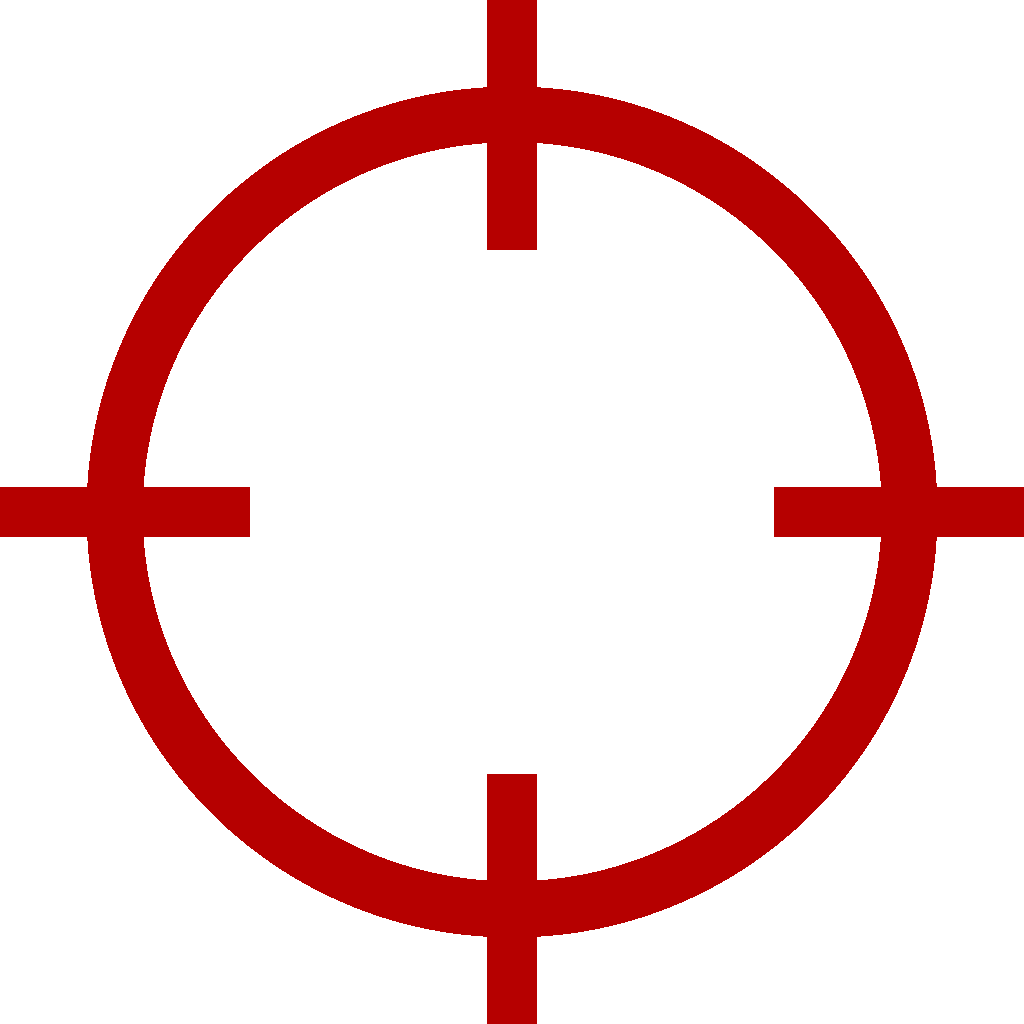
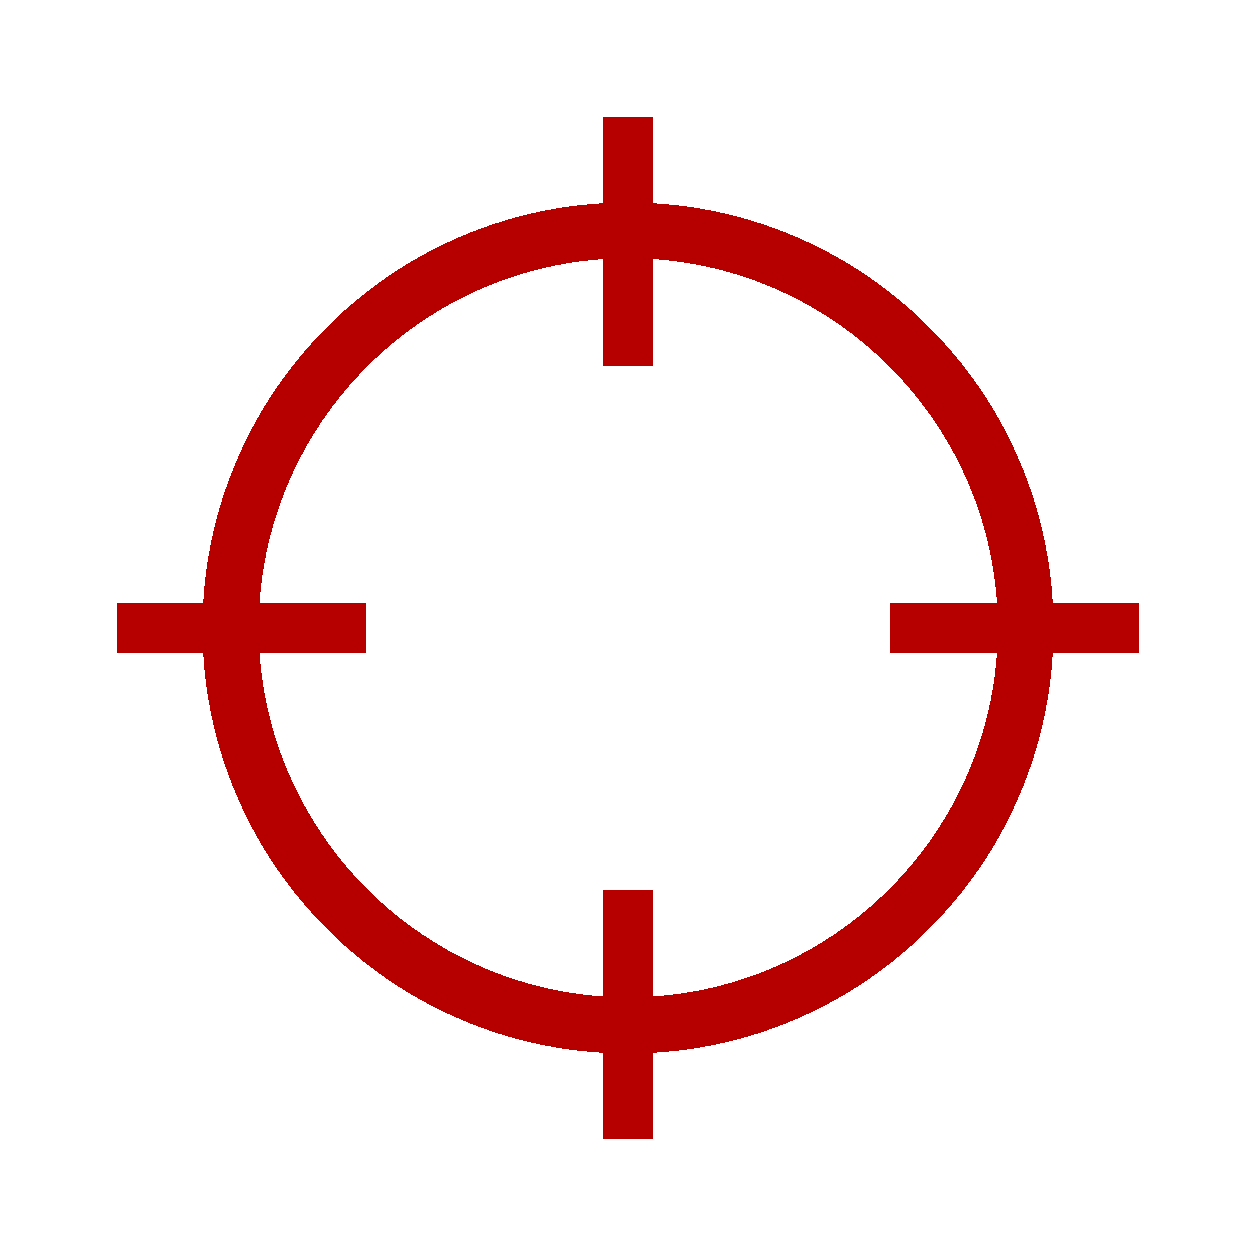
Pointer
added pointer onto selected star + animation of pointer

Changed region(s): [[0.0, 0.0, 1.0, 1.0]]

diff --git a/src/screens/skymap/Planetarium.tsx b/src/screens/skymap/Planetarium.tsx
@@ -20,6 +20,8 @@ import { convertSphericalToCartesian } from '../../helpers/scripts/astro/skymap/
 import { getGlobePosition } from '../../helpers/scripts/astro/skymap/getGlobePosition';
 import PlanetariumUI from "../../components/skymap/PlanetariumUI";
 import { createAzimuthalGrid } from '../../helpers/scripts/astro/skymap/createAzimuthalGrid';
+import { createPointerMaterial } from '../../helpers/scripts/astro/skymap/createPointerMaterial';
+import { createPointerTextures } from '../../helpers/scripts/astro/skymap/createPointerTextures';
 
 let IsInertia = false;
 let oldX = 0.0, oldY = 0.0;
@@ -27,6 +29,15 @@ let Vx = 0.0, Vy = 0.0;
 let camWdth = 0;
 let EquatorialGrid: any;
 let AzimuthalGrid: any;
+const pointerUICoos = [];
+pointerUICoos.push(0, 1, 0);
+const pointergeometry = new THREE.BufferGeometry();
+pointergeometry.setAttribute('position', new THREE.Float32BufferAttribute(pointerUICoos, 3));
+const pointermaterial = createPointerMaterial();
+const pointerUI = new THREE.Points(pointergeometry, pointermaterial);
+pointerUI.visible = false;
+
+
 export default function Planetarium({ navigation }: any) {
 
   const { currentUserLocation } = useSettings();
@@ -104,6 +115,11 @@ export default function Planetarium({ navigation }: any) {
       scene.add(stars);
     });
 
+    pointerUI.frustumCulled = false;
+    const pointerTextures = createPointerTextures();
+    pointerUI.material.map = pointerTextures[0];
+    scene.add(pointerUI);
+    let i = 1;
 
     /////
     EquatorialGrid = createEquatorialGrid(0x0000ff);
@@ -118,9 +134,10 @@ export default function Planetarium({ navigation }: any) {
     Object.keys(AzimuthalGrid).forEach(key => {
       AzimuthalGrid[key].lookAt(getGlobePosition(currentUserLocation.lat, currentUserLocation.lon));
     });
-    scene.add(AzimuthalGrid.grid1);
-    scene.add(AzimuthalGrid.grid2);
-    scene.add(AzimuthalGrid.grid3);
+
+    // scene.add(AzimuthalGrid.grid1);
+    // scene.add(AzimuthalGrid.grid2);
+    // scene.add(AzimuthalGrid.grid3);
 
     let Constellations = drawConstellations();
     scene.add(Constellations);
@@ -130,12 +147,22 @@ export default function Planetarium({ navigation }: any) {
     let ground = createGround();
     ground.lookAt(getGlobePosition(currentUserLocation.lat, currentUserLocation.lon));
     scene.add(ground);
+
     // Animation loop to render the scene
     const animate = () => {
       requestAnimationFrame(animate);
       if (IsInertia) {
         Inertia();
       }
+
+      if (i == 45) {
+        pointerUI.material.map = pointerTextures[i];
+        i = 0;
+      } else {
+        pointerUI.material.map = pointerTextures[i];
+        i = i + 1;
+      }
+
       ground.lookAt(getGlobePosition(currentUserLocation.lat, currentUserLocation.lon));
       Object.keys(AzimuthalGrid).forEach(key => {
         AzimuthalGrid[key].lookAt(getGlobePosition(currentUserLocation.lat, currentUserLocation.lon));
@@ -286,13 +313,17 @@ export default function Planetarium({ navigation }: any) {
         raycaster.setFromCamera(pointer, camera);
         const intersects = raycaster.intersectObjects(scene.children);
         if (typeof intersects[0] !== 'undefined') {
-          // console.log(starsCatalog[intersects[0].index!.toString()]);
+          let pointerCoos = convertSphericalToCartesian(0.5, parseFloat(starsCatalog[intersects[0].index!.toString()].ra), parseFloat(starsCatalog[intersects[0].index!.toString()].dec));
+          let g = pointerUI.geometry;
+          let p = g.getAttribute('position');
+          p.setXYZ(0, pointerCoos.x, pointerCoos.y, pointerCoos.z);
+          p.needsUpdate = true;
+          pointerUI.visible = true;
           setCurrentTapInfos(starsCatalog[intersects[0].index!.toString()]);
-          // let n = parseInt(intersects[0].index!.toString());
-          // console.log(n);
           camera.updateProjectionMatrix();
         } else {
           setCurrentTapInfos(null);
+          pointerUI.visible = false;
         }
       }
     });

diff --git a/src/helpers/scripts/astro/skymap/createPointerMaterial.ts b/src/helpers/scripts/astro/skymap/createPointerMaterial.ts
@@ -1,0 +1,21 @@
+import ExpoTHREE from "expo-three";
+import * as THREE from "three";
+
+
+export const createPointerMaterial = () => {
+  const texture1 = new ExpoTHREE.TextureLoader().load(require('../../../../../assets/images/planetarium/pointer/StarPointer.png'));
+  
+  const pointerMaterial = new THREE.PointsMaterial({
+    map: texture1,
+    color: "white",
+    vertexColors: false,
+    size: 0.03,
+    sizeAttenuation: true,
+    transparent: true,
+    blending: THREE.NormalBlending,
+    depthTest: false,
+    opacity: 1,
+  });
+
+  return pointerMaterial ;
+};

diff --git a/src/helpers/scripts/astro/skymap/createPointerTextures.ts b/src/helpers/scripts/astro/skymap/createPointerTextures.ts
@@ -1,0 +1,15 @@
+import ExpoTHREE from "expo-three";
+import * as THREE from "three";
+
+const textures :any = [];
+
+export const createPointerTextures = () => {
+  for (let i=0; i<=45;i++){
+    const texture = new ExpoTHREE.TextureLoader().load(require('../../../../../assets/images/planetarium/pointer/StarPointer.png'));
+    texture.center = new THREE.Vector2(0.5,0.5);
+    texture.rotation = Math.PI*i/45
+    textures[i]=texture;
+  }
+  
+  return textures;
+};
